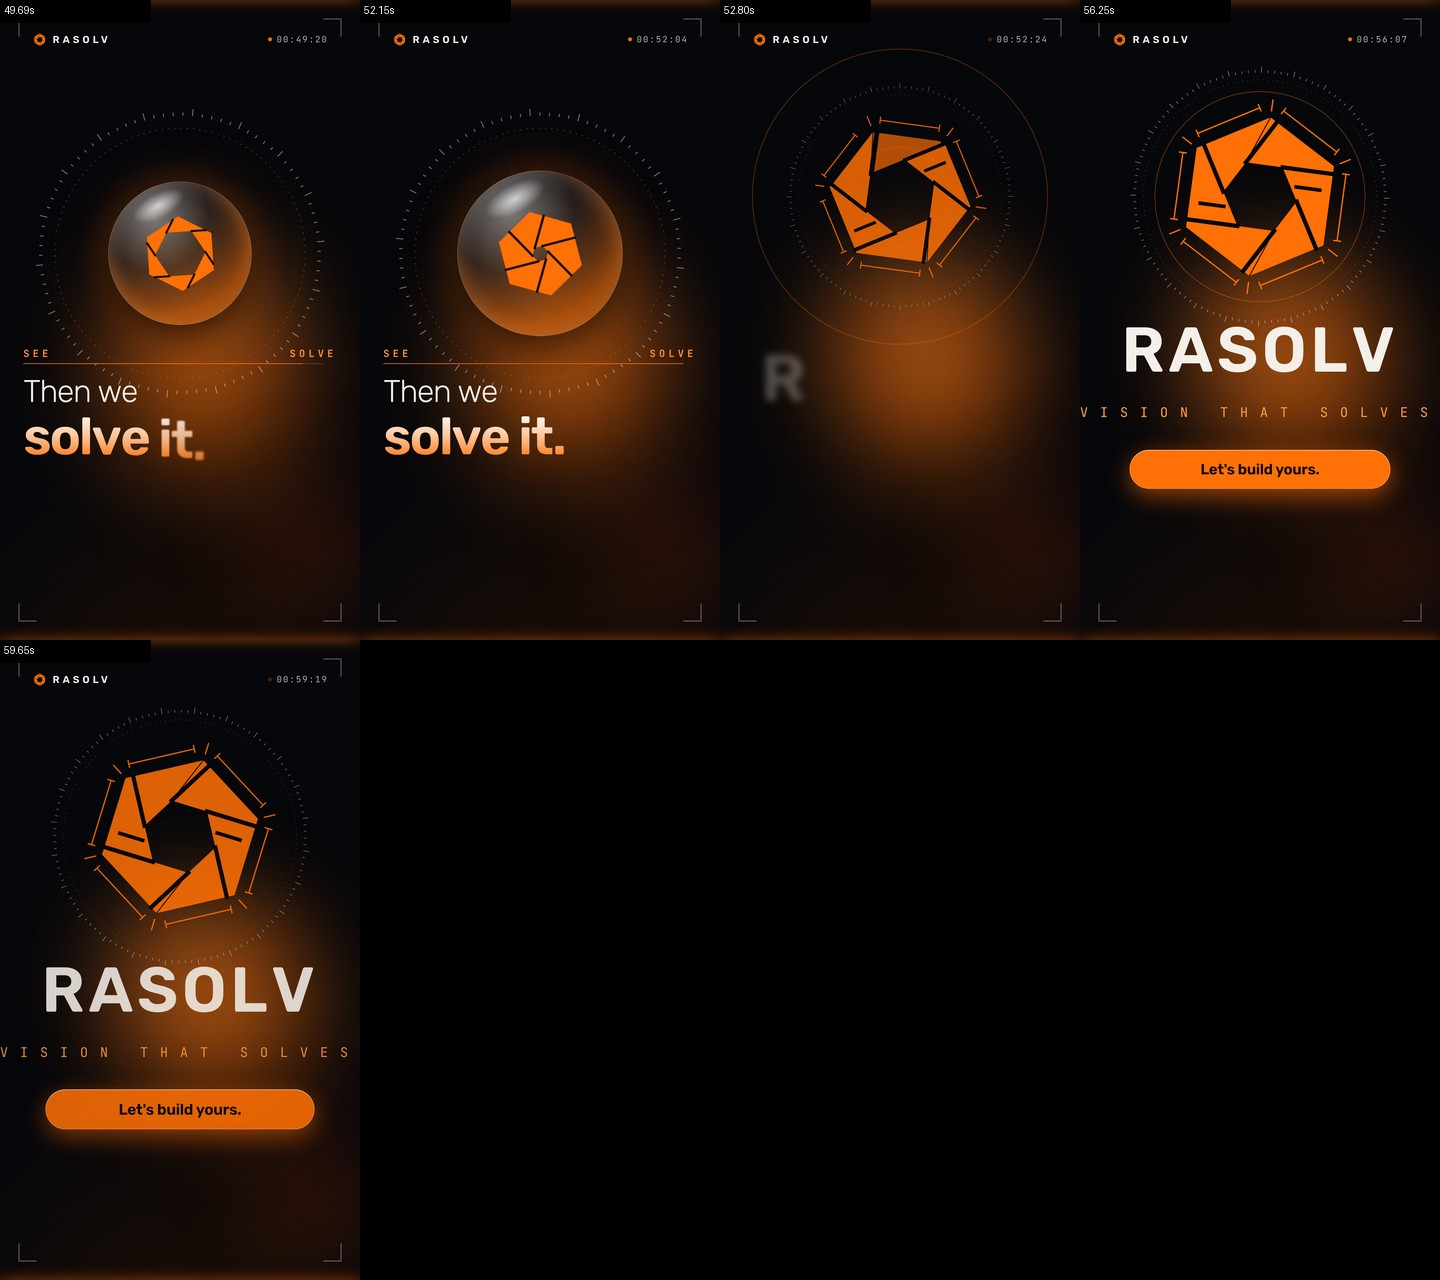
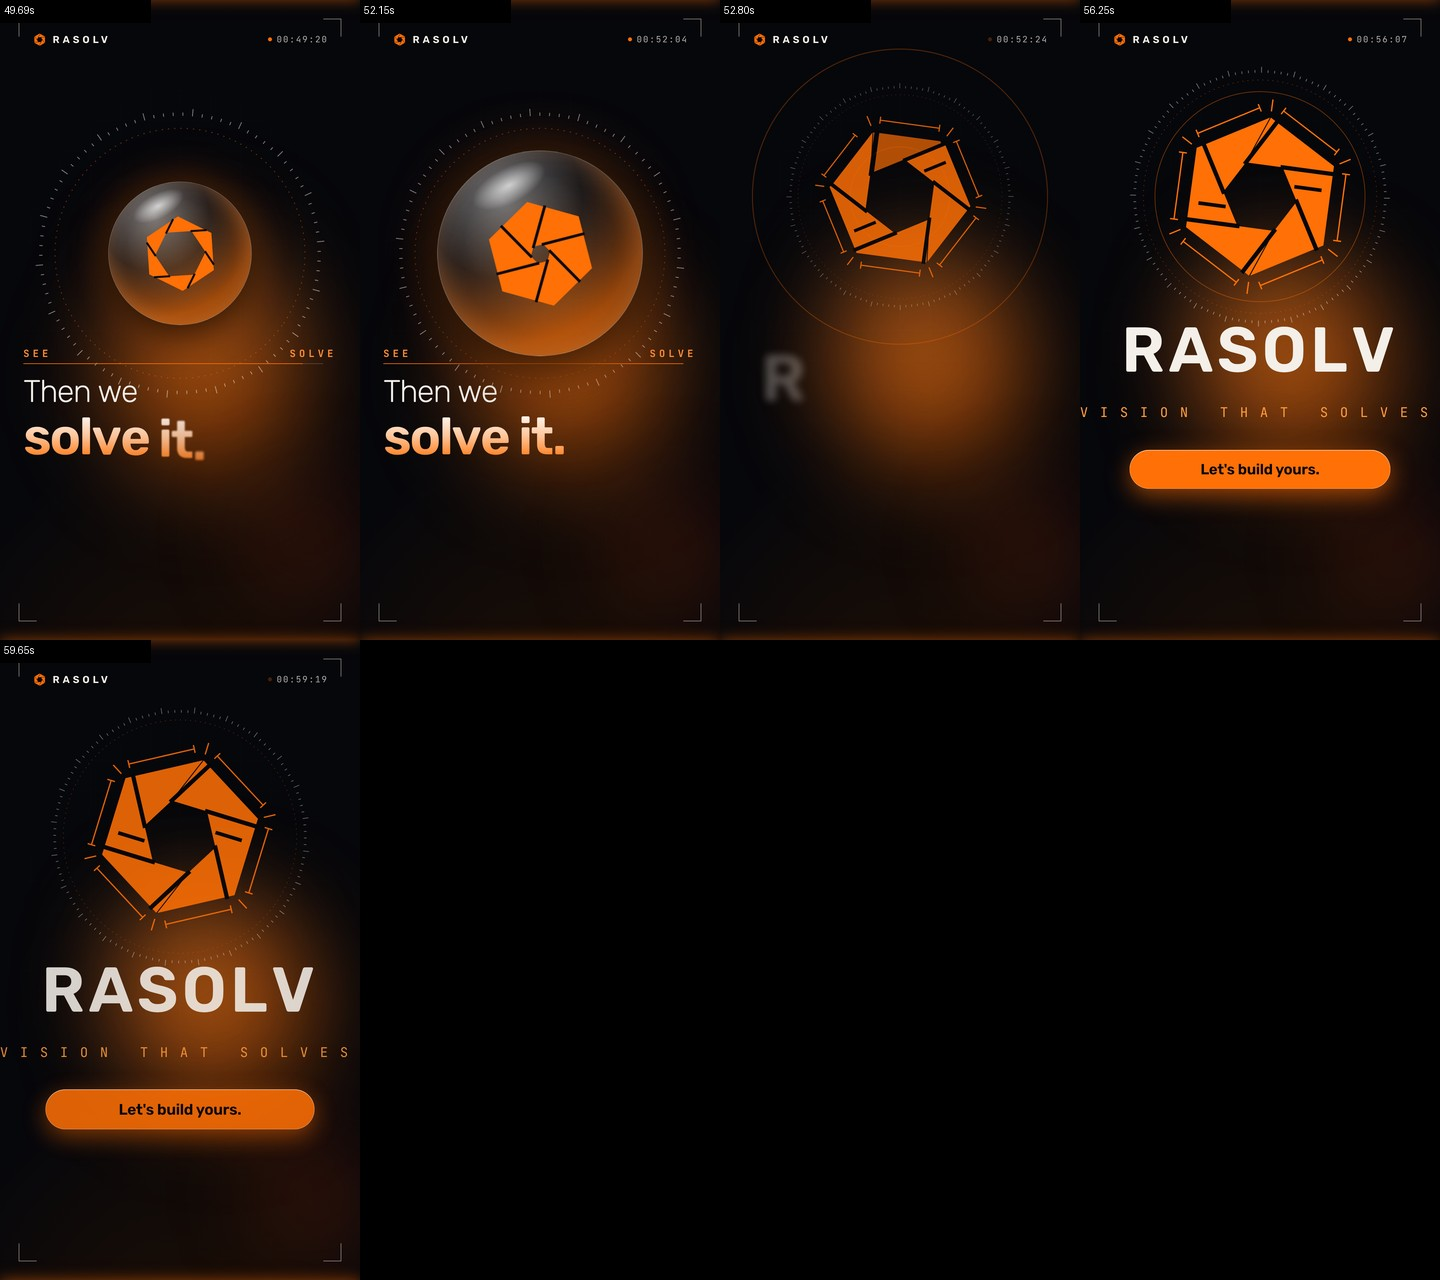
Scale vision orb
Claude-Session: https://claude.ai/code/session_01E13aQvET65eEXXyxFxAVEt

Changed region(s): [[0.2812, 0.0938, 0.4688, 0.3125]]

diff --git a/promo/agency/assets/s5.js b/promo/agency/assets/s5.js
@@ -16,7 +16,7 @@
     const open = ease('power3.out', (t - .5) / 1.6) * (1 - ease('power2.in', (t - 3.6) / .9) * .85); ap(ah, { r: 8 + 46 * open, grow: 1, bp: 0, gap: '#0a0a0f', lines: false }); ah.style.transform = `rotate(${t * 20}deg)`;
     const col = ease('power3.in', (t - 2.0) / .7);   // chips collapse into the sphere on "solve"
     chips.forEach((c, i) => { const a = i / 6 * 6.283 + t * 1.2 + .5; const R = 470 * (1 - col), z = Math.sin(a) * .5 + .5; const x = cx + R * Math.cos(a), y = cy + (R * .26) * Math.sin(a) + 20 * (1 - col); c.style.transform = `translate(${x - 90}px,${y - 32}px) scale(${(.7 + z * .5) * (1 - col * .6)})`; c.style.zIndex = z > .5 ? 8 : 3; c.style.opacity = Math.min(1, Math.max(0, (t - .5 - i * .08) * 5)) * (1 - col); });
-    $('#m-orb').style.transform = `scale(${1 + .07 * Math.sin(Math.max(0, t - 2.0) * 7) * Math.max(0, 1 - (t - 2.0) / 1.2) + ease('power2.in', (t - 4.6) / 1.0) * .5})`;
+    $('#m-orb').style.transform = `scale(${1.28 + .07 * Math.sin(Math.max(0, t - 2.0) * 7) * Math.max(0, 1 - (t - 2.0) / 1.2) + ease('power2.in', (t - 4.6) / 1.0) * .5})`;
   });
   tl.set('#flash', { backgroundColor: '#FFD0A8' }, t0 + 2.0).fromTo('#flash', { opacity: .4 }, { opacity: 0, duration: .3 }, t0 + 2.0);
   // text
